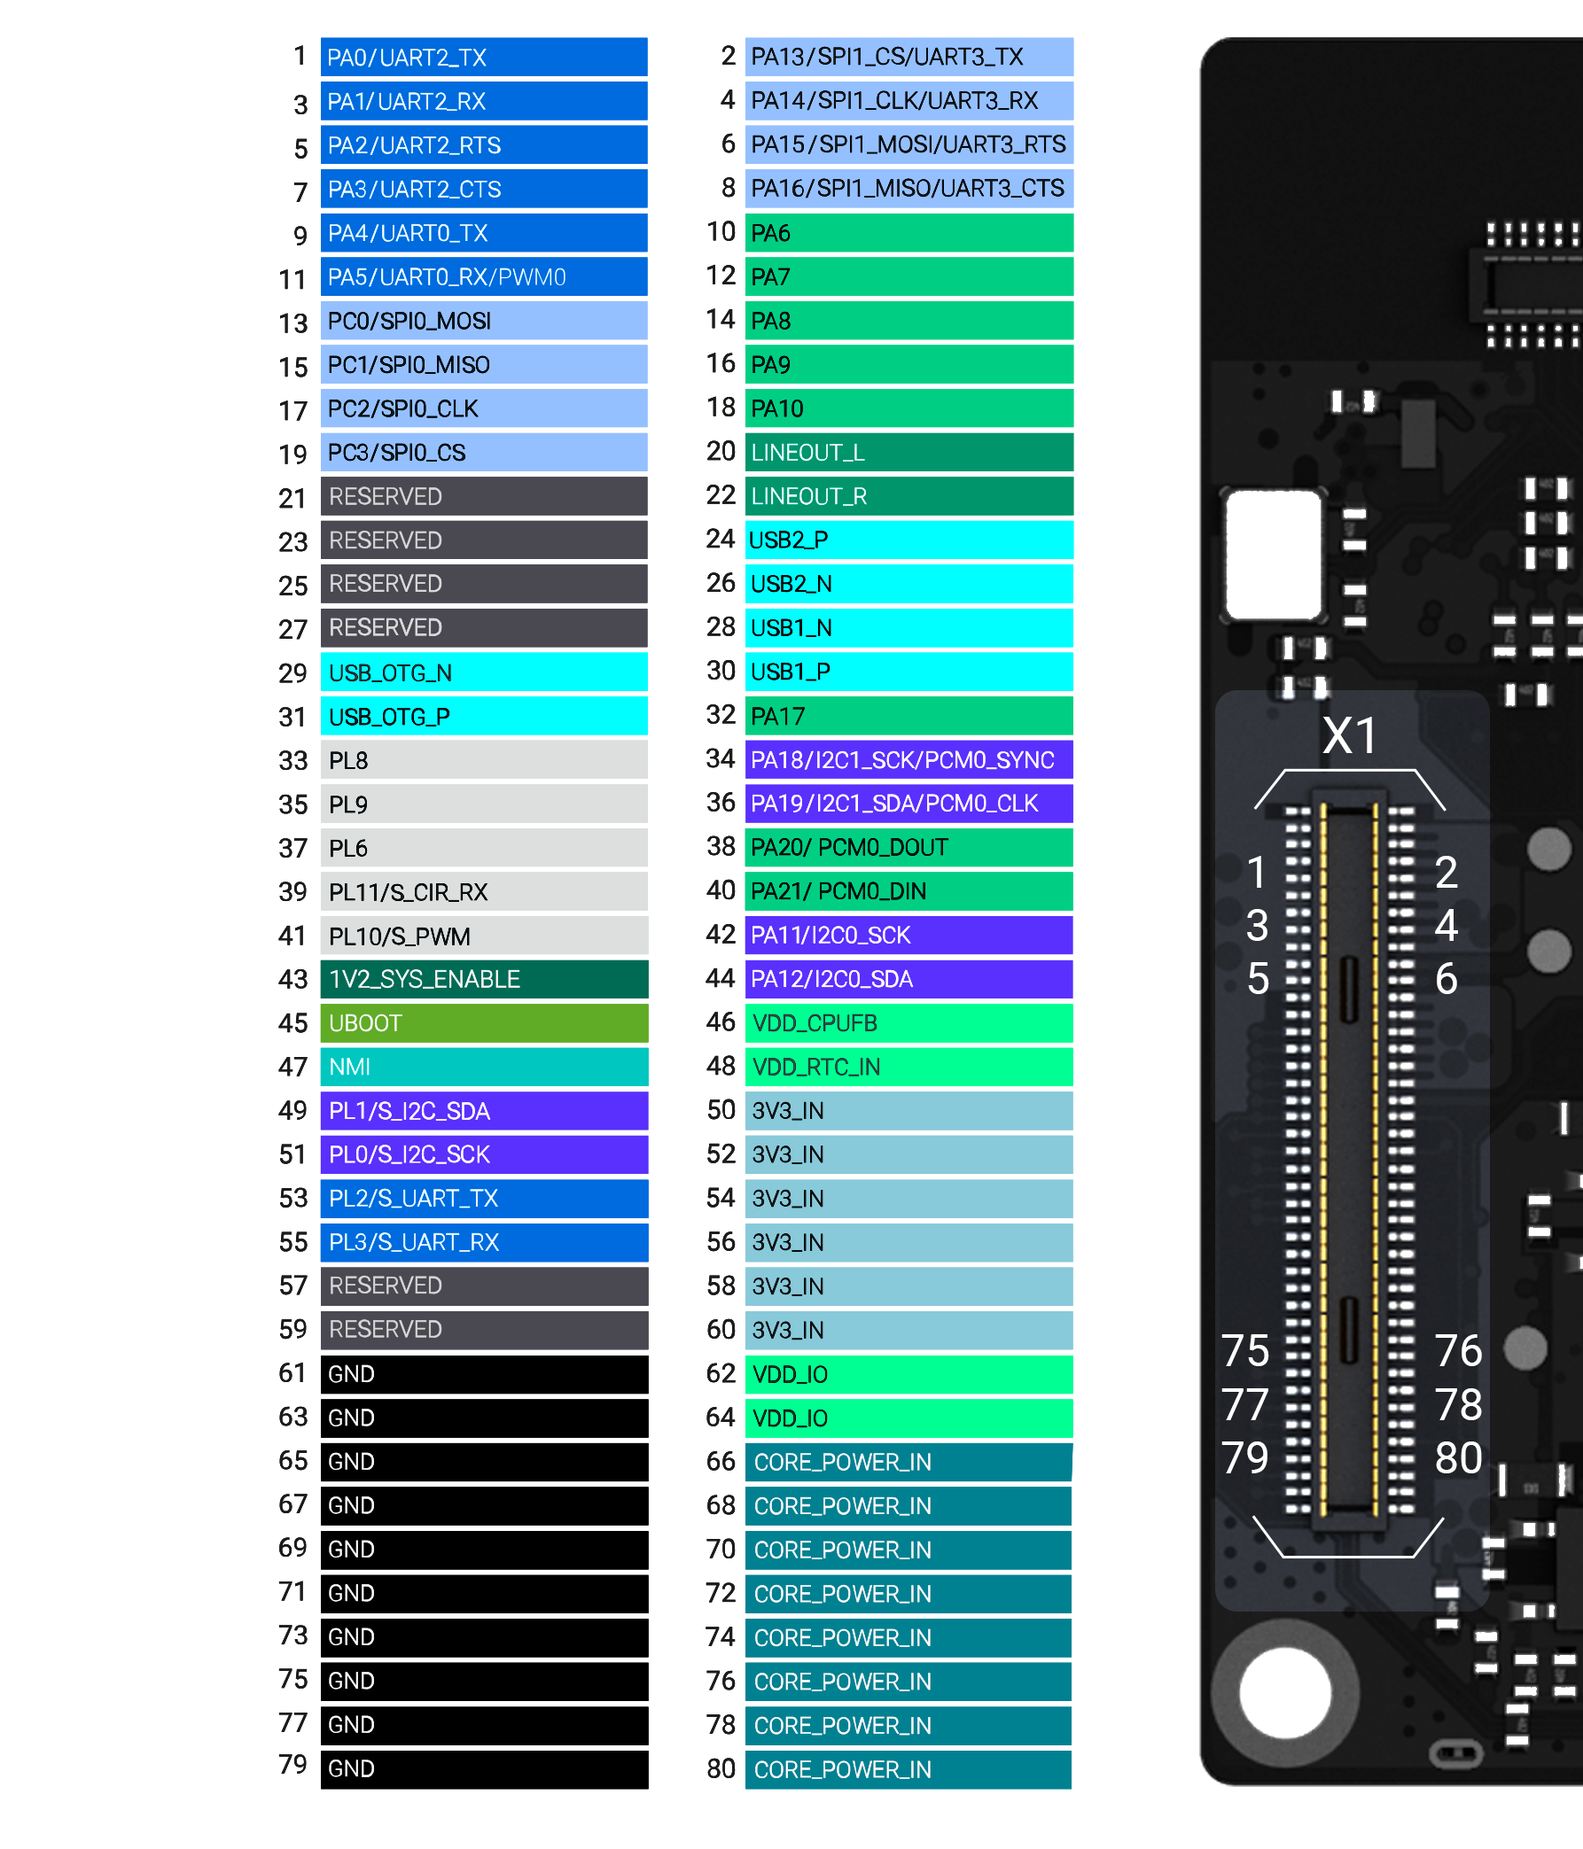
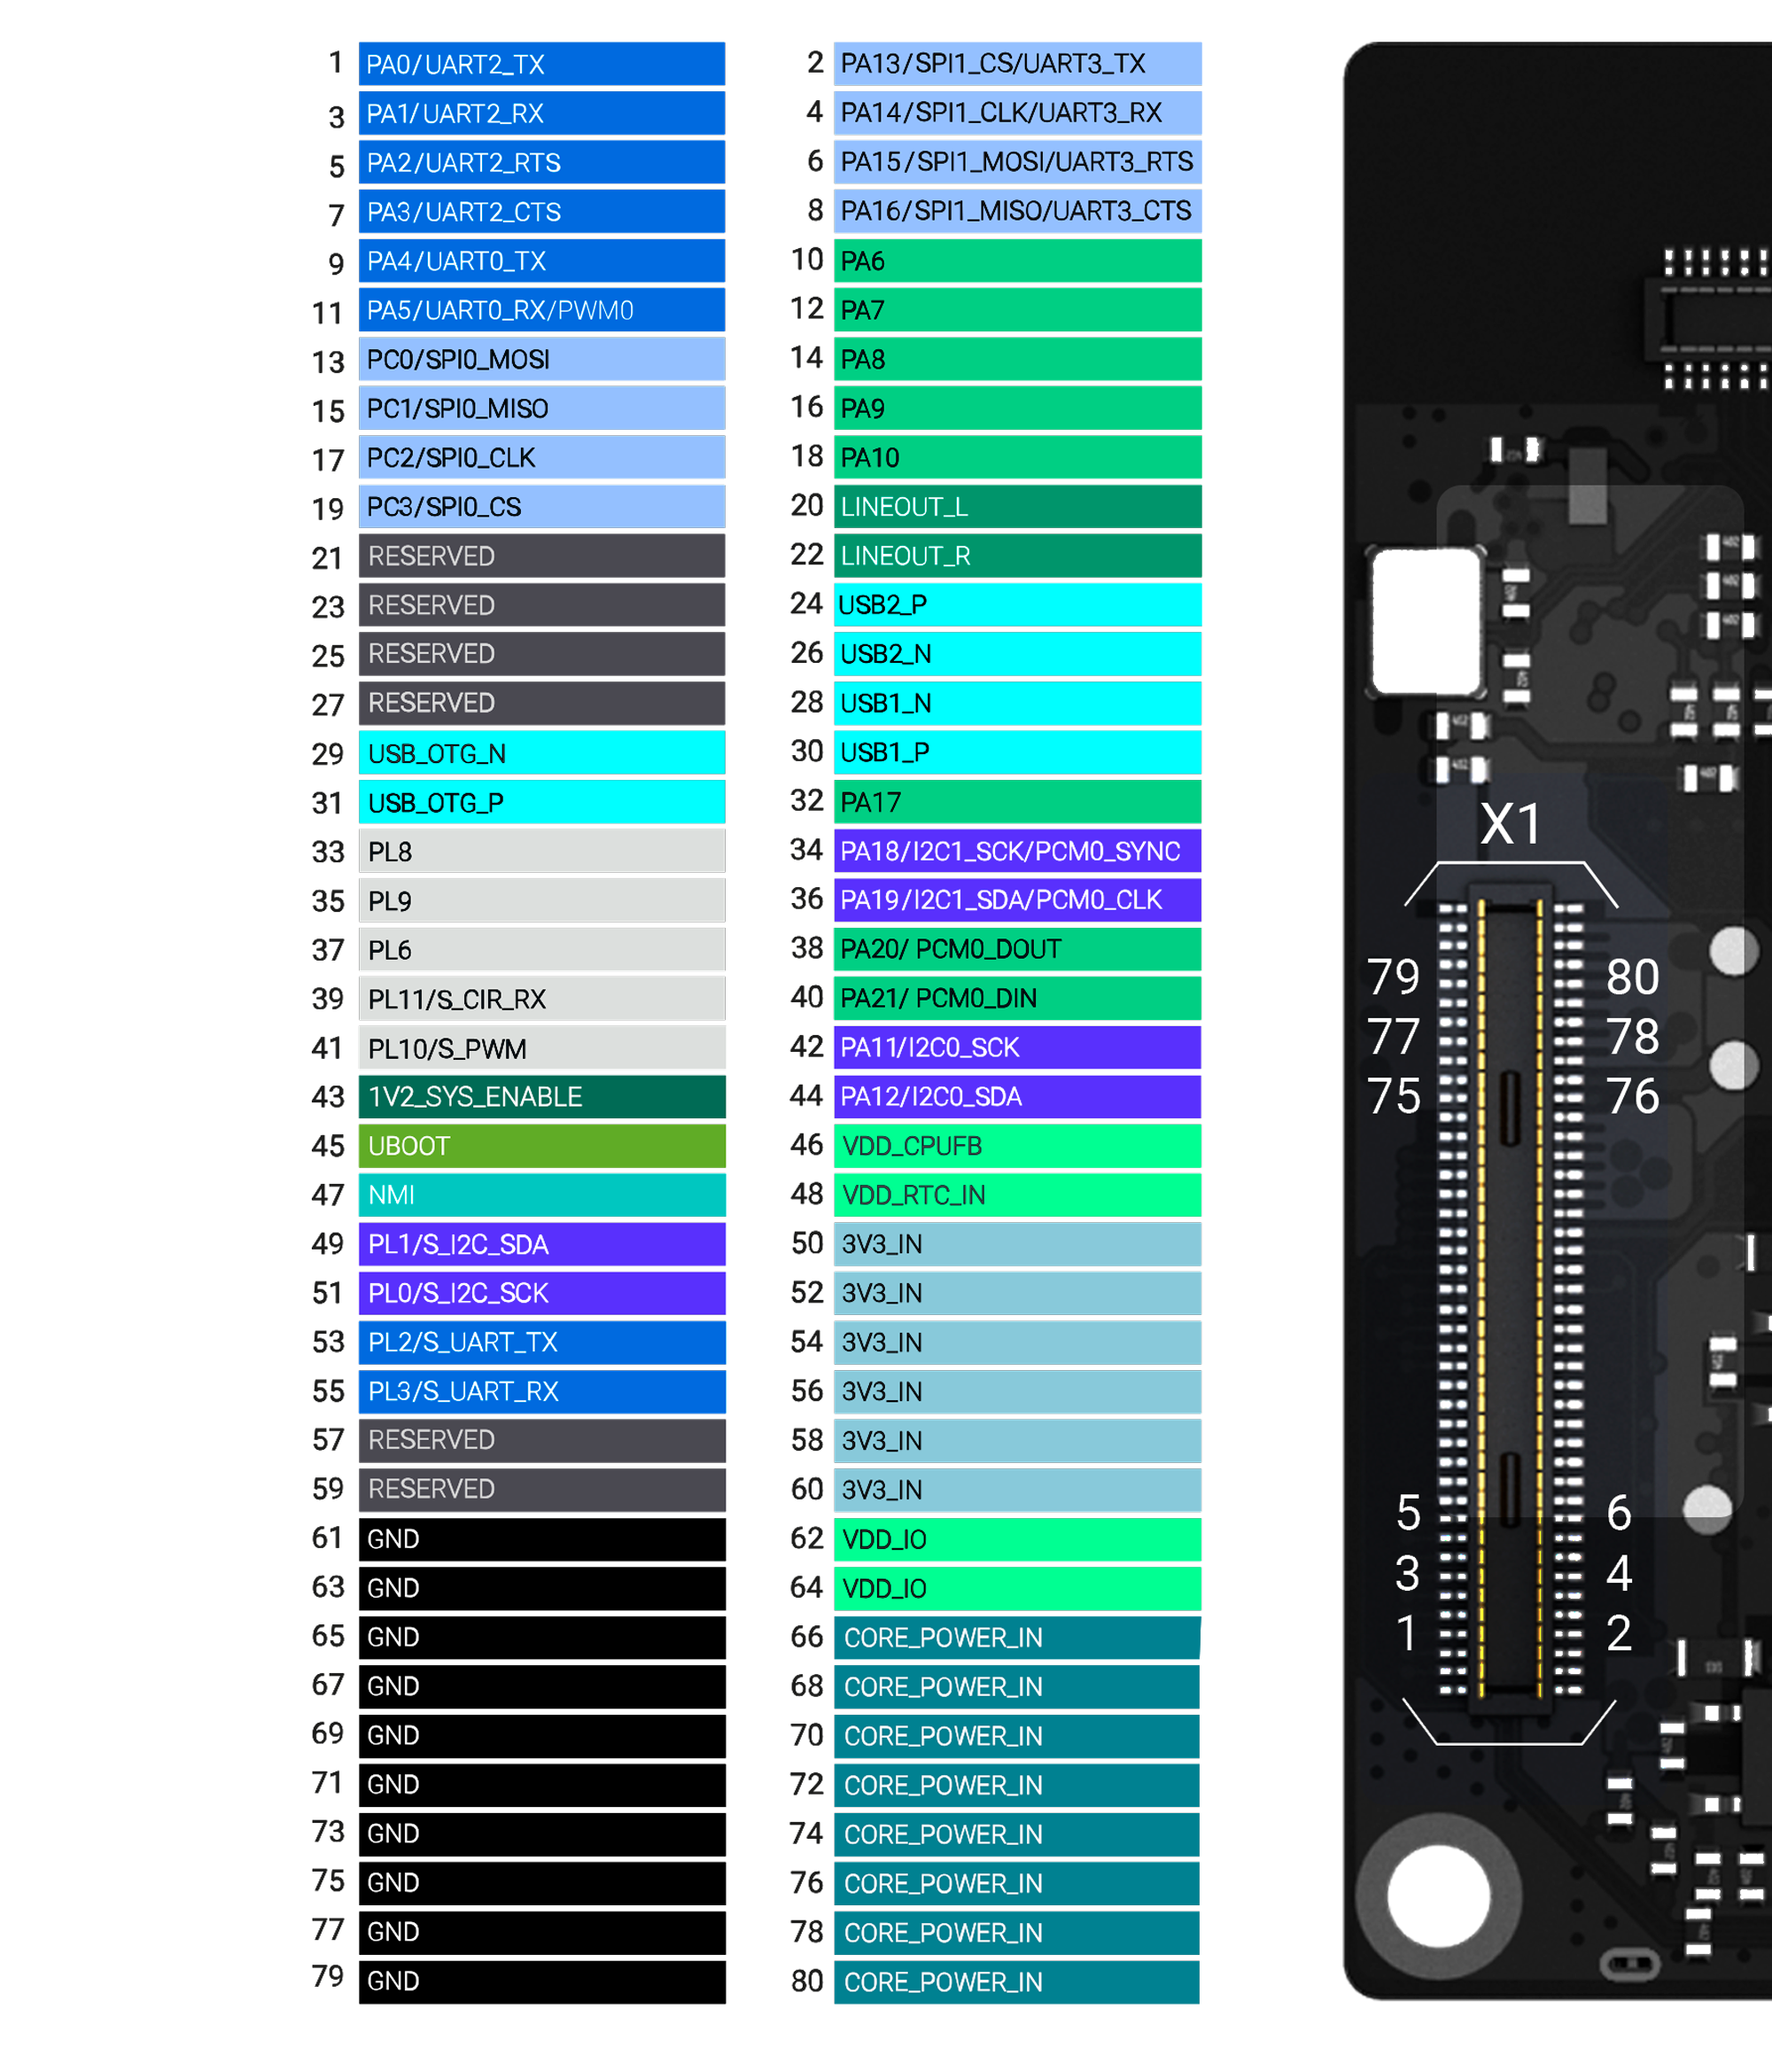
docs: pinout: load the updated pinout for Neutis module

diff --git a/docs/pinout/neutis.md b/docs/pinout/neutis.md
@@ -3,7 +3,8 @@
 The list of pins on Neutis connectors is available in this section.
 Most of them are routed on the [developer board](devboard.md).
 
-Neutis pinout is available on [Neutis web-site](https://neutis.io).
+<a href="../../img/pinout/neutis_pinout_x1.png" target="_blank"> ![scheme](../../img/pinout/neutis_pinout_x1.png)</a>
+<a href="../../img/pinout/neutis_pinout_x2.png" target="_blank"> ![scheme](../../img/pinout/neutis_pinout_x2.png)</a>
 
 
 !!! Tip
